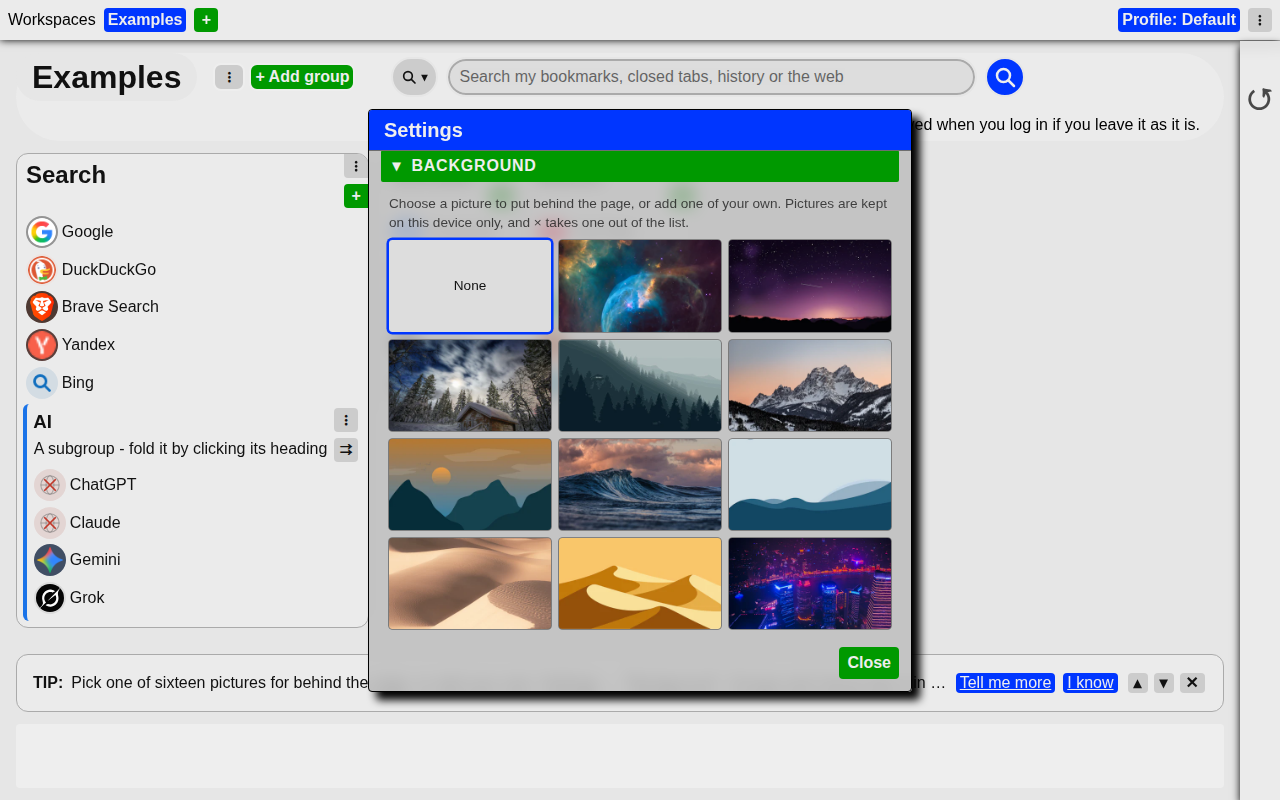
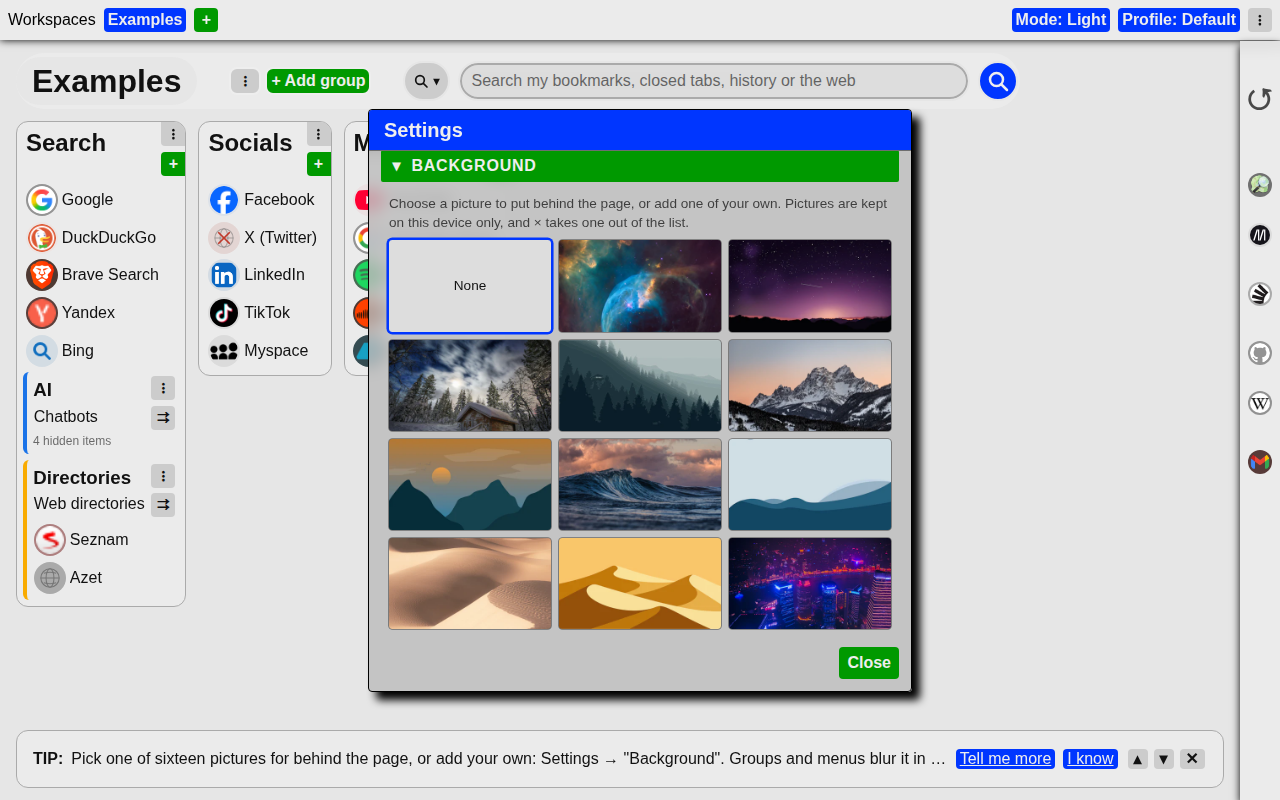
modify example data

diff --git a/screenshots/support/stage.ts b/screenshots/support/stage.ts
@@ -28,12 +28,56 @@ export async function holdStill(page: Page): Promise<void> {
 }
 
 /**
+ *  Pages really visited before the pictures are taken, so the history and the closed tabs
+ *  are recorded by the worker itself - real titles, real favicons. Per language, where the
+ *  site has one.
+ */
+const VISITED_PAGES: Record<string, string[]> = {
+    en: [
+        "https://en.wikipedia.org/wiki/Web_browser",
+        "https://github.com/",
+        "https://developer.mozilla.org/en-US/",
+        "https://www.openstreetmap.org/",
+    ],
+    sk: [
+        "https://sk.wikipedia.org/wiki/Webov%C3%BD_prehliada%C4%8D",
+        "https://github.com/",
+        // MDN has no Slovak edition; its address for one is a "Page not found".
+        "https://developer.mozilla.org/en-US/",
+        "https://www.openstreetmap.org/",
+    ],
+};
+
+/**
+ *  What another device of the same account recorded - made up, since there is no second
+ *  device: it is what makes a row say where it happened. A device name is the user's own
+ *  label, so it is written in the reader's language.
+ */
+const OTHER_DEVICE: Record<string, string> = { en: "Work computer", sk: "Pracovný počítač" };
+const OTHER_DEVICE_PAGES = [
+    {
+        url: "https://stackoverflow.com/questions/927358/how-do-i-undo-the-most-recent-local-commits-in-git",
+        title: "How do I undo the most recent local commits in Git? - Stack Overflow",
+        // Through Google: Stack Overflow's own hosts refuse headless Chromium.
+        faviconUrl: "https://www.google.com/s2/favicons?domain=stackoverflow.com&sz=64",
+        minutesAgo: 18,
+    },
+    {
+        url: "https://mail.google.com/mail/u/0/",
+        title: "Gmail",
+        faviconUrl: "https://ssl.gstatic.com/ui/v1/icons/mail/rfr/gmail.ico",
+        minutesAgo: 47,
+    },
+];
+
+/** The pages visited here are spread out this far apart before `FIXED_TIME`, newest first. */
+const LOCAL_MINUTES_AGO = [4, 11, 26, 39];
+
+/**
  *  Opens the new tab page with the language and preferences in place and the "Load examples"
  *  set loaded - the way a new user reaches it, through the first-run page's button. The
  *  preferences are written first, so the page the button reloads is already drawn with them.
- *
- *  A curated demo set (an en and an sk dump of chrome.storage.local) is meant to replace the
- *  examples; it would be written here, in place of the click.
+ *  Then the examples are made to look used - see `stageDemoData`.
  */
 export async function openWithExamples(
     page: Page,
@@ -42,15 +86,136 @@ export async function openWithExamples(
     preferences: StagePreferences
 ): Promise<void> {
     await page.goto(`chrome-extension://${extensionId}/index.html`);
+    // Synchronisation off: the premium session below must never reach for the account.
     await page.evaluate(
         stored => chrome.storage.local.set({ device_preferences: stored }),
-        { ...preferences, language });
+        { ...preferences, language, syncEnabled: false });
     await page.reload();
     await Promise.all([
         page.waitForEvent("load"),
         page.click("#act-load-defaults"),
     ]);
     await page.waitForSelector("workspace-plane link-group");
+    await stageDemoData(page, language);
+}
+
+/**
+ *  Turns freshly loaded examples into a profile somebody uses:
+ *
+ *  - **No longer example data.** The first edit clears the example mark on the workspace and
+ *    the profile, and with it the "this is only an example" notice; this clears it the same way.
+ *  - **History and closed tabs.** History recording is turned on, a few pages are really
+ *    visited and closed, and two pages "closed on the work computer" are added beside them.
+ *  - **Premium**, so there is no ad slot: tabilinks.app is not blocked (the background pictures
+ *    come from there), so a free page would load the slot. A stored session with a premium
+ *    standing checked "now" does it; synchronisation is off, so nothing asks the account.
+ *
+ *  Reloads the page at the end, so it is drawn from the staged storage.
+ */
+async function stageDemoData(page: Page, language: string): Promise<void> {
+    await page.evaluate(async now => {
+        const { profile_registry: registry } = await chrome.storage.local.get("profile_registry");
+        const profileId: string = registry.activeProfileId;
+        const { example: _example, ...profile } = registry.profiles[profileId];
+        profile.settings = { ...profile.settings, recordBrowsingHistory: true };
+        registry.profiles[profileId] = profile;
+
+        const stateKey = `app_state_${profileId}`;
+        const { [stateKey]: state } = await chrome.storage.local.get(stateKey);
+        for (const workspace of Object.values<Record<string, unknown>>(state.environments)) {
+            delete workspace.example;
+        }
+
+        await chrome.storage.local.set({
+            profile_registry: registry,
+            [stateKey]: state,
+            sync_session: {
+                accessToken: "screenshots", refreshToken: "screenshots",
+                userId: "screenshots", username: "tabilinks", deviceId: null,
+                accessTokenExpiresAt: now + 365 * 24 * 60 * 60 * 1000,
+            },
+            account_standing: { userId: "screenshots", premium: true, checkedAt: now },
+        });
+    }, FIXED_TIME.getTime());
+
+    await visitAndClose(page, VISITED_PAGES[language] ?? VISITED_PAGES.en);
+    await placeLogsInTime(page, OTHER_DEVICE[language] ?? OTHER_DEVICE.en);
+    await page.reload();
+    await page.waitForSelector("workspace-plane link-group");
+}
+
+/**
+ *  Opens each page in a tab of its own and closes it again - the worker records the visit
+ *  once the page has loaded and the closed tab when it goes. Waits until both are stored.
+ */
+async function visitAndClose(page: Page, urls: string[]): Promise<void> {
+    for (const url of urls) {
+        const tab = await page.context().newPage();
+        await tab.goto(url, { waitUntil: "load" });
+        // Title and favicon arrive in reports after "complete"; let the worker hear them.
+        await tab.waitForTimeout(1500);
+        await tab.close();
+    }
+    // Polled from here: waitForFunction takes the promise an async check returns for a yes.
+    const deadline = Date.now() + 30_000;
+    while (Math.min(...Object.values(await countLogs(page))) < urls.length) {
+        if (Date.now() > deadline) {
+            throw new Error(`Visited ${urls.length} pages, recorded ${JSON.stringify(await countLogs(page))}`);
+        }
+        await page.waitForTimeout(250);
+    }
+}
+
+/** How many closed tabs and visits the active profile has stored. */
+function countLogs(page: Page): Promise<{ closedTabs: number; visits: number }> {
+    return page.evaluate(async () => {
+        const { profile_registry: registry } = await chrome.storage.local.get("profile_registry");
+        const id = registry.activeProfileId;
+        const stored = await chrome.storage.local.get([`closed_tabs_${id}`, `visits_${id}`]);
+        return {
+            closedTabs: Object.keys(stored[`closed_tabs_${id}`] ?? {}).length,
+            visits: Object.keys(stored[`visits_${id}`] ?? {}).length,
+        };
+    });
+}
+
+/**
+ *  Moves what was recorded to just before `FIXED_TIME`, and adds the other device's two pages.
+ *
+ *  The worker's clock is the real one - only the page's is held still - so what it recorded
+ *  would read as "in 20 hours" on a page frozen in the past. Kept in the order it happened.
+ */
+async function placeLogsInTime(page: Page, otherDevice: string): Promise<void> {
+    await page.evaluate(async ({ now, localMinutesAgo, otherDevice, otherPages }) => {
+        const minute = 60 * 1000;
+        const { profile_registry: registry } = await chrome.storage.local.get("profile_registry");
+        const id = registry.activeProfileId;
+        const closedKey = `closed_tabs_${id}`;
+        const visitsKey = `visits_${id}`;
+        const stored = await chrome.storage.local.get([closedKey, visitsKey]);
+
+        // Both logs are stored as records keyed by their id.
+        type Entry = Record<string, unknown> & { id: string };
+        const restamped = (entries: Record<string, Entry>, field: string): Record<string, Entry> => {
+            const local = Object.values(entries)
+                .sort((one, other) => (other[field] as number) - (one[field] as number))
+                .map((entry, index) => ({
+                    ...entry,
+                    [field]: now - (localMinutesAgo[index] ?? localMinutesAgo.length * 15 + index) * minute,
+                }));
+            const fromOther: Entry[] = otherPages.map(other => ({
+                id: crypto.randomUUID(), url: other.url, title: other.title,
+                faviconUrl: other.faviconUrl, deviceName: otherDevice,
+                [field]: now - other.minutesAgo * minute,
+            }));
+            return Object.fromEntries([...local, ...fromOther].map(entry => [entry.id, entry]));
+        };
+
+        await chrome.storage.local.set({
+            [closedKey]: restamped(stored[closedKey] ?? {}, "closedAt"),
+            [visitsKey]: restamped(stored[visitsKey] ?? {}, "visitedAt"),
+        });
+    }, { now: FIXED_TIME.getTime(), localMinutesAgo: LOCAL_MINUTES_AGO, otherDevice, otherPages: OTHER_DEVICE_PAGES });
 }
 
 /**

diff --git a/screenshots/support/newTabPage.ts b/screenshots/support/newTabPage.ts
@@ -48,6 +48,22 @@ export class NewTabPage {
         await this.pointerAway();
     }
 
+    /**
+     *  Puts one of the built-in background pictures behind the page, the way a user does:
+     *  Settings → Background, its tile, and Close. The full-size picture is downloaded from the
+     *  website, so this waits until the page is drawn with it.
+     *
+     *  @param number the tile's number as Settings labels it, from 1
+     */
+    async chooseBackground(number: number): Promise<void> {
+        await this.openSettings("background");
+        await this.page.getByRole("option",
+            { name: this.t("settings.backgroundImage.tile", { number: String(number) }), exact: true }).click();
+        await this.page.locator("html.has-custom-background").waitFor({ state: "attached", timeout: 30_000 });
+        await this.page.getByRole("button", { name: this.t("common.close"), exact: true }).click();
+        await this.pointerAway();
+    }
+
     /** Types into the search bar and waits for the suggestions under it. */
     async search(query: string): Promise<void> {
         await this.page.locator("input.search-bar__input").pressSequentially(query, { delay: 50 });

diff --git a/screenshots/support/browser.ts b/screenshots/support/browser.ts
@@ -5,11 +5,13 @@ import path from "node:path";
 const EXTENSION_DIR = path.resolve(__dirname, "..", "..", "dist");
 
 /**
- *  Hosts that make a picture differ from run to run: the ad slot, the account, the usage
- *  counter. Refused, they leave the page as it is offline, which it treats as an ordinary
- *  state. Favicons still come from the network.
+ *  Hosts that make a picture differ from run to run: the account and the usage counter.
+ *  Refused, they leave the page as it is offline, which it treats as an ordinary state.
+ *  Favicons still come from the network, and so does the website: the full-size background
+ *  pictures are downloaded from it. Its ad slot stays out because the staged account is
+ *  premium (`stage.ts`), which draws no slot at all.
  */
-const BLOCKED_HOSTS = ["https://tabilinks.app/**", "https://api.tabilinks.app/**"];
+const BLOCKED_HOSTS = ["https://api.tabilinks.app/**"];
 
 /**
  *  A Chromium with the extension loaded, in a profile of its own.

diff --git a/screenshots/store.shots.ts b/screenshots/store.shots.ts
@@ -7,11 +7,6 @@ import { test } from "./support/test";
  *  second scene would need too belongs in support/newTabPage.ts, not here.
  */
 
-test("home", async ({ newTab, shoot }) => {
-    await newTab.pointerAway();
-    await shoot("1-home");
-});
-
 test("search suggestions", async ({ newTab, shoot }) => {
     await newTab.search("you");
     await shoot("2-search");
@@ -20,6 +15,11 @@ test("search suggestions", async ({ newTab, shoot }) => {
 test.describe("light theme", () => {
     // Preferences are in place before the page draws; one setting changes a whole group.
     test.use({ preferences: { theme: "light" } });
+
+    test("home", async ({ newTab, shoot }) => {
+        await newTab.chooseBackground(3);
+        await shoot("1-home");
+    });
 
     test("settings, background", async ({ newTab, shoot }) => {
         await newTab.openSettings("background");

diff --git a/screenshots/CATALOGUE.md b/screenshots/CATALOGUE.md
@@ -48,9 +48,21 @@ names each picture `<name>_3x`: the website derives the smaller densities itself
 
 | Target | Scene (`test` title) | Picture | What it shows |
 |---|---|---|---|
-| `store` | home | `1-home` | The example workspace, dark, Aero |
+| `store` | light theme › home | `1-home` | The example workspace, light, Aero, background 3 |
 | `store` | search suggestions | `2-search` | "you" typed, links suggested above "search the web" |
 | `store` | light theme › settings, background | `5-settings-background` | Settings → Background, light |
+
+## What every scene starts from (`support/stage.ts`)
+
+"Load examples", then made to look used before the first picture:
+
+- **Not example data** - the example mark is cleared as a first edit would, so no "only an example" notice.
+- **History and closed tabs** - history recording on; four pages really visited and closed
+  (`VISITED_PAGES`, per language), then two more from "Work computer" / "Pracovný počítač"
+  (`OTHER_DEVICE_PAGES`), all moved to just before the frozen clock.
+- **Premium, no ad slot** - a stored session with a premium standing and synchronisation off, so
+  nothing asks the account. Only `api.tabilinks.app` is blocked; the website is reachable, for the
+  full-size background pictures.
 
 ## Page actions (`support/newTabPage.ts`)
 
@@ -59,10 +71,9 @@ names each picture `<name>_3x`: the website derives the smaller densities itself
 | `pointerAway()` | Moves the pointer where it opens nothing |
 | `openSettings(category?)` | Application menu → Settings, that category alone unfolded and at the top |
 | `search(query)` | Types into the search bar, waits for suggestions |
+| `chooseBackground(number)` | Settings → Background → that built-in tile, waits for the picture, closes Settings |
 
 ## Not yet possible
 
-- **Curated demo data.** Scenes use "Load examples". Closed tabs, history and a background need a
-  dump of `chrome.storage.local` per language (`stage.ts`, `openWithExamples`).
 - **Browser UI** - the right-click submenu, tab groups in the tab strip, the popup's bubble.
   Headless Chromium draws the page only.
